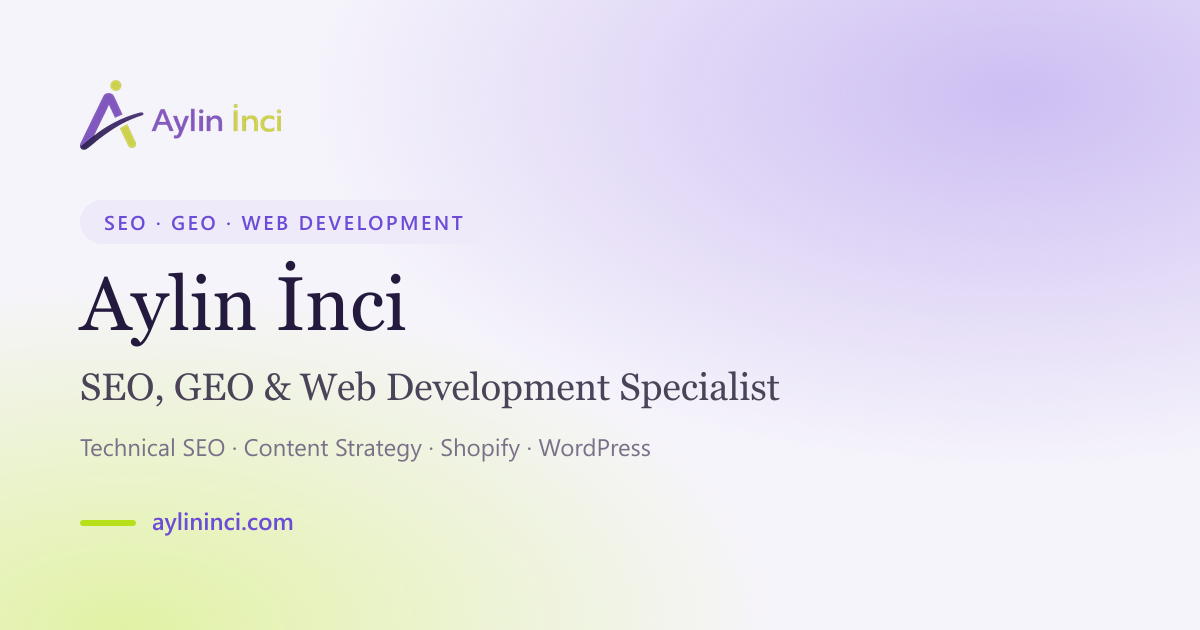
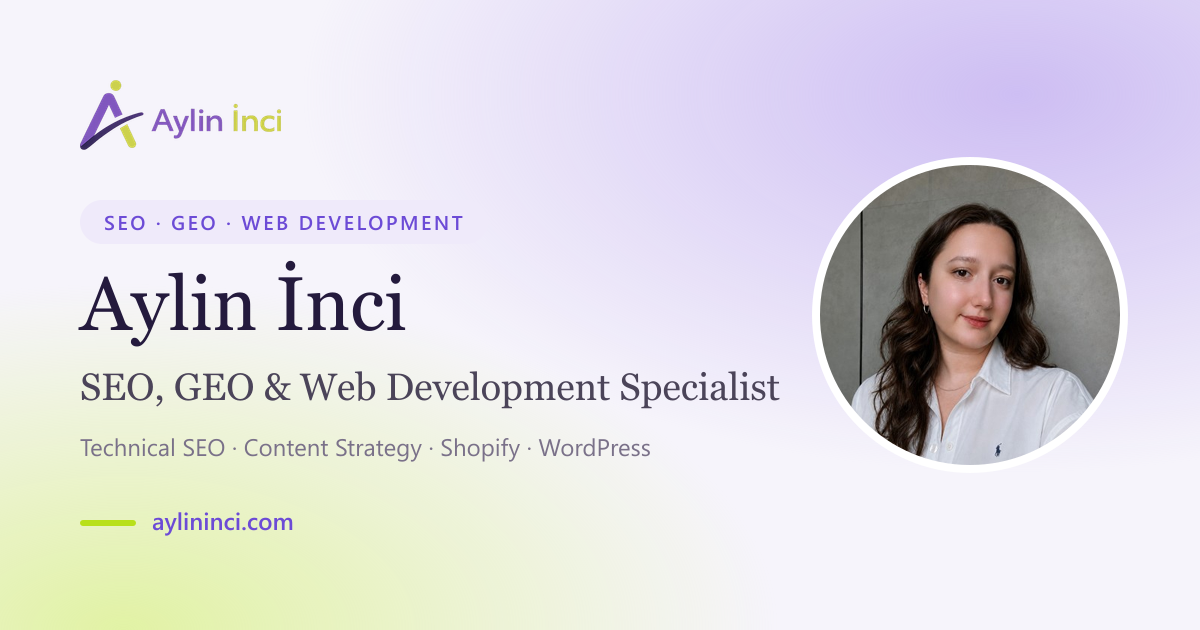
Profil fotoğrafı: Hakkımda, yazar kutusu, schema ve paylaşım görselleri

Changed region(s): [[0.6783, 0.2413, 0.9558, 0.754]]

diff --git a/en/index.html b/en/index.html
@@ -103,6 +103,10 @@
   .about-grid{display:grid; grid-template-columns:1.3fr 1fr; gap:56px; align-items:start; margin-bottom:48px;}
   .about-text p{font-size:16px; color:var(--body); margin-bottom:16px;}
   .about-side{display:grid; gap:16px;}
+  .about-photo{display:flex; align-items:center; gap:18px; margin-bottom:4px;}
+  .about-photo img{width:112px; height:112px; border-radius:50%; object-fit:cover; display:block; border:4px solid var(--surface-card); box-shadow:var(--shadow-soft);}
+  .about-photo strong{display:block; font-family:var(--font-display); font-weight:400; font-size:22px; color:var(--ink);}
+  .about-photo span{font-size:14px; color:var(--muted);}
   .side-card{background:var(--surface-card); border:1px solid var(--hairline); border-radius:14px; padding:22px;}
   .side-card h3{font-size:15px; font-weight:600; color:var(--ink); margin-bottom:6px;}
   .side-card p{font-size:14px; color:var(--muted);}
@@ -224,7 +228,7 @@
       "@id": "https://aylininci.com/#person",
       "name": "Aylin İnci",
       "url": "https://aylininci.com/",
-      "image": "https://aylininci.com/aylin-inci-logo.png",
+      "image": "https://aylininci.com/aylin-inci.jpg",
       "jobTitle": "SEO, GEO & Web Development Specialist",
       "description": "SEO and web development specialist working on technical SEO, GEO (Generative Engine Optimization), content strategy, Shopify and WordPress development.",
       "email": "mailto:aylinvinci@gmail.com",
@@ -343,6 +347,10 @@
         <p data-i18n="about.p4">I have experience across Turkish and English projects, on websites from different sectors and business models.</p>
       </div>
       <div class="about-side">
+        <div class="about-photo">
+          <img src="/aylin-inci.webp" alt="Aylin İnci" width="400" height="400" loading="lazy">
+          <div><strong>Aylin İnci</strong><span>SEO, GEO &amp; Web Development Specialist</span></div>
+        </div>
         <div class="side-card">
           <h3 data-i18n="about.c1.h">Strategy and Technical Implementation</h3>
           <p data-i18n="about.c1.p">Evaluating SEO strategy, content structure and technical infrastructure toward the same goal.</p>

diff --git a/index.html b/index.html
@@ -104,6 +104,10 @@
   .about-grid{display:grid; grid-template-columns:1.3fr 1fr; gap:56px; align-items:start; margin-bottom:48px;}
   .about-text p{font-size:16px; color:var(--body); margin-bottom:16px;}
   .about-side{display:grid; gap:16px;}
+  .about-photo{display:flex; align-items:center; gap:18px; margin-bottom:4px;}
+  .about-photo img{width:112px; height:112px; border-radius:50%; object-fit:cover; display:block; border:4px solid var(--surface-card); box-shadow:var(--shadow-soft);}
+  .about-photo strong{display:block; font-family:var(--font-display); font-weight:400; font-size:22px; color:var(--ink);}
+  .about-photo span{font-size:14px; color:var(--muted);}
   .side-card{background:var(--surface-card); border:1px solid var(--hairline); border-radius:14px; padding:22px;}
   .side-card h3{font-size:15px; font-weight:600; color:var(--ink); margin-bottom:6px;}
   .side-card p{font-size:14px; color:var(--muted);}
@@ -225,7 +229,7 @@
       "@id": "https://aylininci.com/#person",
       "name": "Aylin İnci",
       "url": "https://aylininci.com/",
-      "image": "https://aylininci.com/aylin-inci-logo.png",
+      "image": "https://aylininci.com/aylin-inci.jpg",
       "jobTitle": "SEO, GEO ve Web Geliştirme Uzmanı",
       "description": "Teknik SEO, GEO (Generative Engine Optimization), içerik stratejisi, Shopify ve WordPress geliştirme alanlarında çalışan SEO ve web geliştirme uzmanı.",
       "email": "mailto:aylinvinci@gmail.com",
@@ -315,6 +319,10 @@
         <p data-i18n="about.p4">Türkçe ve İngilizce projelerde, farklı sektör ve iş modellerine ait web sitelerinde deneyime sahibim.</p>
       </div>
       <div class="about-side">
+        <div class="about-photo">
+          <img src="/aylin-inci.webp" alt="Aylin İnci" width="400" height="400" loading="lazy">
+          <div><strong>Aylin İnci</strong><span>SEO, GEO ve Web Geliştirme Uzmanı</span></div>
+        </div>
         <div class="side-card">
           <h3 data-i18n="about.c1.h">Strateji ve Teknik Uygulama</h3>
           <p data-i18n="about.c1.p">SEO stratejisi, içerik yapısı ve teknik altyapının aynı hedef doğrultusunda değerlendirilmesi.</p>

diff --git a/blog/yapay-zeka-arama-icin-icerik-yapisi.html b/blog/yapay-zeka-arama-icin-icerik-yapisi.html
@@ -41,7 +41,7 @@
   "image": "https://aylininci.com/blog/images/yapay-zeka-arama-icin-icerik-yapisi-hero.webp",
   "headline": "GEO: Yapay Zeka Destekli Arama İçin İçerik Yapısı Nasıl Kurulur?",
   "description": "ChatGPT, Perplexity ve Google AI Overviews gibi üretken arama sistemleri içeriğinizi nasıl okuyor? Varlık netliği, yapılandırılmış veri ve alıntılanabilirlik için pratik bir GEO rehberi.",
-  "author": {"@type": "Person", "@id": "https://aylininci.com/#person", "name": "Aylin İnci", "url": "https://aylininci.com/", "sameAs": ["https://www.linkedin.com/in/aylin-inci/"]},
+  "author": {"@type": "Person", "@id": "https://aylininci.com/#person", "name": "Aylin İnci", "url": "https://aylininci.com/", "image": "https://aylininci.com/aylin-inci.jpg", "sameAs": ["https://www.linkedin.com/in/aylin-inci/"]},
   "publisher": {"@id": "https://aylininci.com/#person"},
   "datePublished": "2026-08-28",
   "dateModified": "2026-08-28",
@@ -131,6 +131,7 @@
   .checklist li{padding-left:28px;position:relative;}
   .checklist li::before{content:"✓";position:absolute;left:0;color:var(--primary);font-weight:700;}
   .author-box{display:flex;gap:14px;align-items:flex-start;background:var(--surface-card);border:1px solid var(--hairline);border-radius:16px;padding:20px;margin-top:48px;}
+  .author-box img{width:56px;height:56px;border-radius:50%;object-fit:cover;flex-shrink:0;}
   .author-box strong{display:block;color:var(--ink-active);}
   .related{padding:32px 0 72px;border-top:1px solid var(--hairline);}
   .related h2{margin-top:0;}
@@ -279,6 +280,7 @@ Allow: /</code></pre>
     </div>
 
     <div class="author-box">
+      <img src="/aylin-inci-120.webp" alt="Aylin İnci" width="56" height="56" loading="lazy">
       <div>
         <strong><a href="/" style="color:inherit;text-decoration:none;">Aylin İnci</a></strong>
         <span>Teknik SEO, GEO ve web geliştirme üzerine çalışıyor; içerik yapısı ve arama görünürlüğü odaklı danışmanlık veriyor. <a href="https://www.linkedin.com/in/aylin-inci/" target="_blank" rel="noopener" style="color:var(--primary);">LinkedIn</a></span>

diff --git a/blog/anahtar-kelime-kanibalizasyonu-analizi.html b/blog/anahtar-kelime-kanibalizasyonu-analizi.html
@@ -41,7 +41,7 @@
   "image": "https://aylininci.com/blog/images/anahtar-kelime-kanibalizasyonu-analizi-hero.webp",
   "headline": "Anahtar Kelime Kanibalizasyonu Nasıl Tespit Edilir ve Çözülür?",
   "description": "Aynı sorgu için birden fazla sayfanın rekabet etmesini Search Console verisiyle tespit etme, niyet ayrıştırma, birleştirme ve canonical/301 karar süreci.",
-  "author": {"@type": "Person", "@id": "https://aylininci.com/#person", "name": "Aylin İnci", "url": "https://aylininci.com/", "sameAs": ["https://www.linkedin.com/in/aylin-inci/"]},
+  "author": {"@type": "Person", "@id": "https://aylininci.com/#person", "name": "Aylin İnci", "url": "https://aylininci.com/", "image": "https://aylininci.com/aylin-inci.jpg", "sameAs": ["https://www.linkedin.com/in/aylin-inci/"]},
   "publisher": {"@id": "https://aylininci.com/#person"},
   "datePublished": "2026-08-28",
   "dateModified": "2026-08-28",
@@ -131,6 +131,7 @@
   .checklist li{padding-left:28px;position:relative;}
   .checklist li::before{content:"✓";position:absolute;left:0;color:var(--primary);font-weight:700;}
   .author-box{display:flex;gap:14px;align-items:flex-start;background:var(--surface-card);border:1px solid var(--hairline);border-radius:16px;padding:20px;margin-top:48px;}
+  .author-box img{width:56px;height:56px;border-radius:50%;object-fit:cover;flex-shrink:0;}
   .author-box strong{display:block;color:var(--ink-active);}
   .related{padding:32px 0 72px;border-top:1px solid var(--hairline);}
   .related h2{margin-top:0;}
@@ -294,6 +295,7 @@ ORDER BY SUM(impressions) DESC</code></pre>
     </div>
 
     <div class="author-box">
+      <img src="/aylin-inci-120.webp" alt="Aylin İnci" width="56" height="56" loading="lazy">
       <div>
         <strong><a href="/" style="color:inherit;text-decoration:none;">Aylin İnci</a></strong>
         <span>Teknik SEO, GEO ve web geliştirme üzerine çalışıyor; içerik stratejisi ve arama görünürlüğü odaklı danışmanlık veriyor. <a href="https://www.linkedin.com/in/aylin-inci/" target="_blank" rel="noopener" style="color:var(--primary);">LinkedIn</a></span>

diff --git a/blog/core-web-vitals-performans-optimizasyonu.html b/blog/core-web-vitals-performans-optimizasyonu.html
@@ -41,7 +41,7 @@
   "image": "https://aylininci.com/blog/images/core-web-vitals-performans-optimizasyonu-hero.webp",
   "headline": "Core Web Vitals Nasıl İyileştirilir? LCP, INP, CLS Rehberi",
   "description": "LCP, INP ve CLS'i sahada (CrUX) ve laboratuvarda ölçmekten gerçek düzeltmelere: uygulamalı bir Core Web Vitals rehberi.",
-  "author": {"@type": "Person", "@id": "https://aylininci.com/#person", "name": "Aylin İnci", "url": "https://aylininci.com/", "sameAs": ["https://www.linkedin.com/in/aylin-inci/"]},
+  "author": {"@type": "Person", "@id": "https://aylininci.com/#person", "name": "Aylin İnci", "url": "https://aylininci.com/", "image": "https://aylininci.com/aylin-inci.jpg", "sameAs": ["https://www.linkedin.com/in/aylin-inci/"]},
   "publisher": {"@id": "https://aylininci.com/#person"},
   "datePublished": "2026-08-28",
   "dateModified": "2026-08-28",
@@ -134,6 +134,7 @@
   .checklist li::before{content:"✓";position:absolute;left:0;color:var(--primary);font-weight:700;}
   .author-box{display:flex;gap:14px;align-items:flex-start;background:var(--surface-card);border:1px solid var(--hairline);border-radius:16px;padding:20px;margin-top:48px;}
   .author-box img{width:52px;height:52px;border-radius:50%;object-fit:cover;}
+  .author-box img{width:56px;height:56px;border-radius:50%;object-fit:cover;flex-shrink:0;}
   .author-box strong{display:block;color:var(--ink-active);}
   .related{padding:32px 0 72px;border-top:1px solid var(--hairline);}
   .related h2{margin-top:0;}
@@ -301,6 +302,7 @@ onCLS(gonder);</code></pre>
     </div>
 
     <div class="author-box">
+      <img src="/aylin-inci-120.webp" alt="Aylin İnci" width="56" height="56" loading="lazy">
       <div>
         <strong><a href="/" style="color:inherit;text-decoration:none;">Aylin İnci</a></strong>
         <span>Teknik SEO, GEO ve web geliştirme üzerine çalışıyor; Shopify ve WordPress projelerinde performans ve arama görünürlüğü odaklı danışmanlık veriyor. <a href="https://www.linkedin.com/in/aylin-inci/" target="_blank" rel="noopener" style="color:var(--primary);">LinkedIn</a></span>

diff --git a/blog/shopify-liquid-performans-optimizasyonu.html b/blog/shopify-liquid-performans-optimizasyonu.html
@@ -41,7 +41,7 @@
   "image": "https://aylininci.com/blog/images/shopify-liquid-performans-optimizasyonu-hero.webp",
   "headline": "Shopify Liquid Geliştirmelerinde Performansın Korunması",
   "description": "Shopify temalarına özel section ve blok eklerken performansı korumak: gereksiz JavaScript, render gecikmeleri ve Liquid döngü maliyetleri.",
-  "author": {"@type": "Person", "@id": "https://aylininci.com/#person", "name": "Aylin İnci", "url": "https://aylininci.com/", "sameAs": ["https://www.linkedin.com/in/aylin-inci/"]},
+  "author": {"@type": "Person", "@id": "https://aylininci.com/#person", "name": "Aylin İnci", "url": "https://aylininci.com/", "image": "https://aylininci.com/aylin-inci.jpg", "sameAs": ["https://www.linkedin.com/in/aylin-inci/"]},
   "publisher": {"@id": "https://aylininci.com/#person"},
   "datePublished": "2026-08-28",
   "dateModified": "2026-08-28",
@@ -131,6 +131,7 @@
   .checklist li{padding-left:28px;position:relative;}
   .checklist li::before{content:"✓";position:absolute;left:0;color:var(--primary);font-weight:700;}
   .author-box{display:flex;gap:14px;align-items:flex-start;background:var(--surface-card);border:1px solid var(--hairline);border-radius:16px;padding:20px;margin-top:48px;}
+  .author-box img{width:56px;height:56px;border-radius:50%;object-fit:cover;flex-shrink:0;}
   .author-box strong{display:block;color:var(--ink-active);}
   .related{padding:32px 0 72px;border-top:1px solid var(--hairline);}
   .related h2{margin-top:0;}
@@ -297,6 +298,7 @@
     </div>
 
     <div class="author-box">
+      <img src="/aylin-inci-120.webp" alt="Aylin İnci" width="56" height="56" loading="lazy">
       <div>
         <strong><a href="/" style="color:inherit;text-decoration:none;">Aylin İnci</a></strong>
         <span>Teknik SEO, GEO ve web geliştirme üzerine çalışıyor; Shopify ve WordPress projelerinde performans ve arama görünürlüğü odaklı danışmanlık veriyor. <a href="https://www.linkedin.com/in/aylin-inci/" target="_blank" rel="noopener" style="color:var(--primary);">LinkedIn</a></span>
